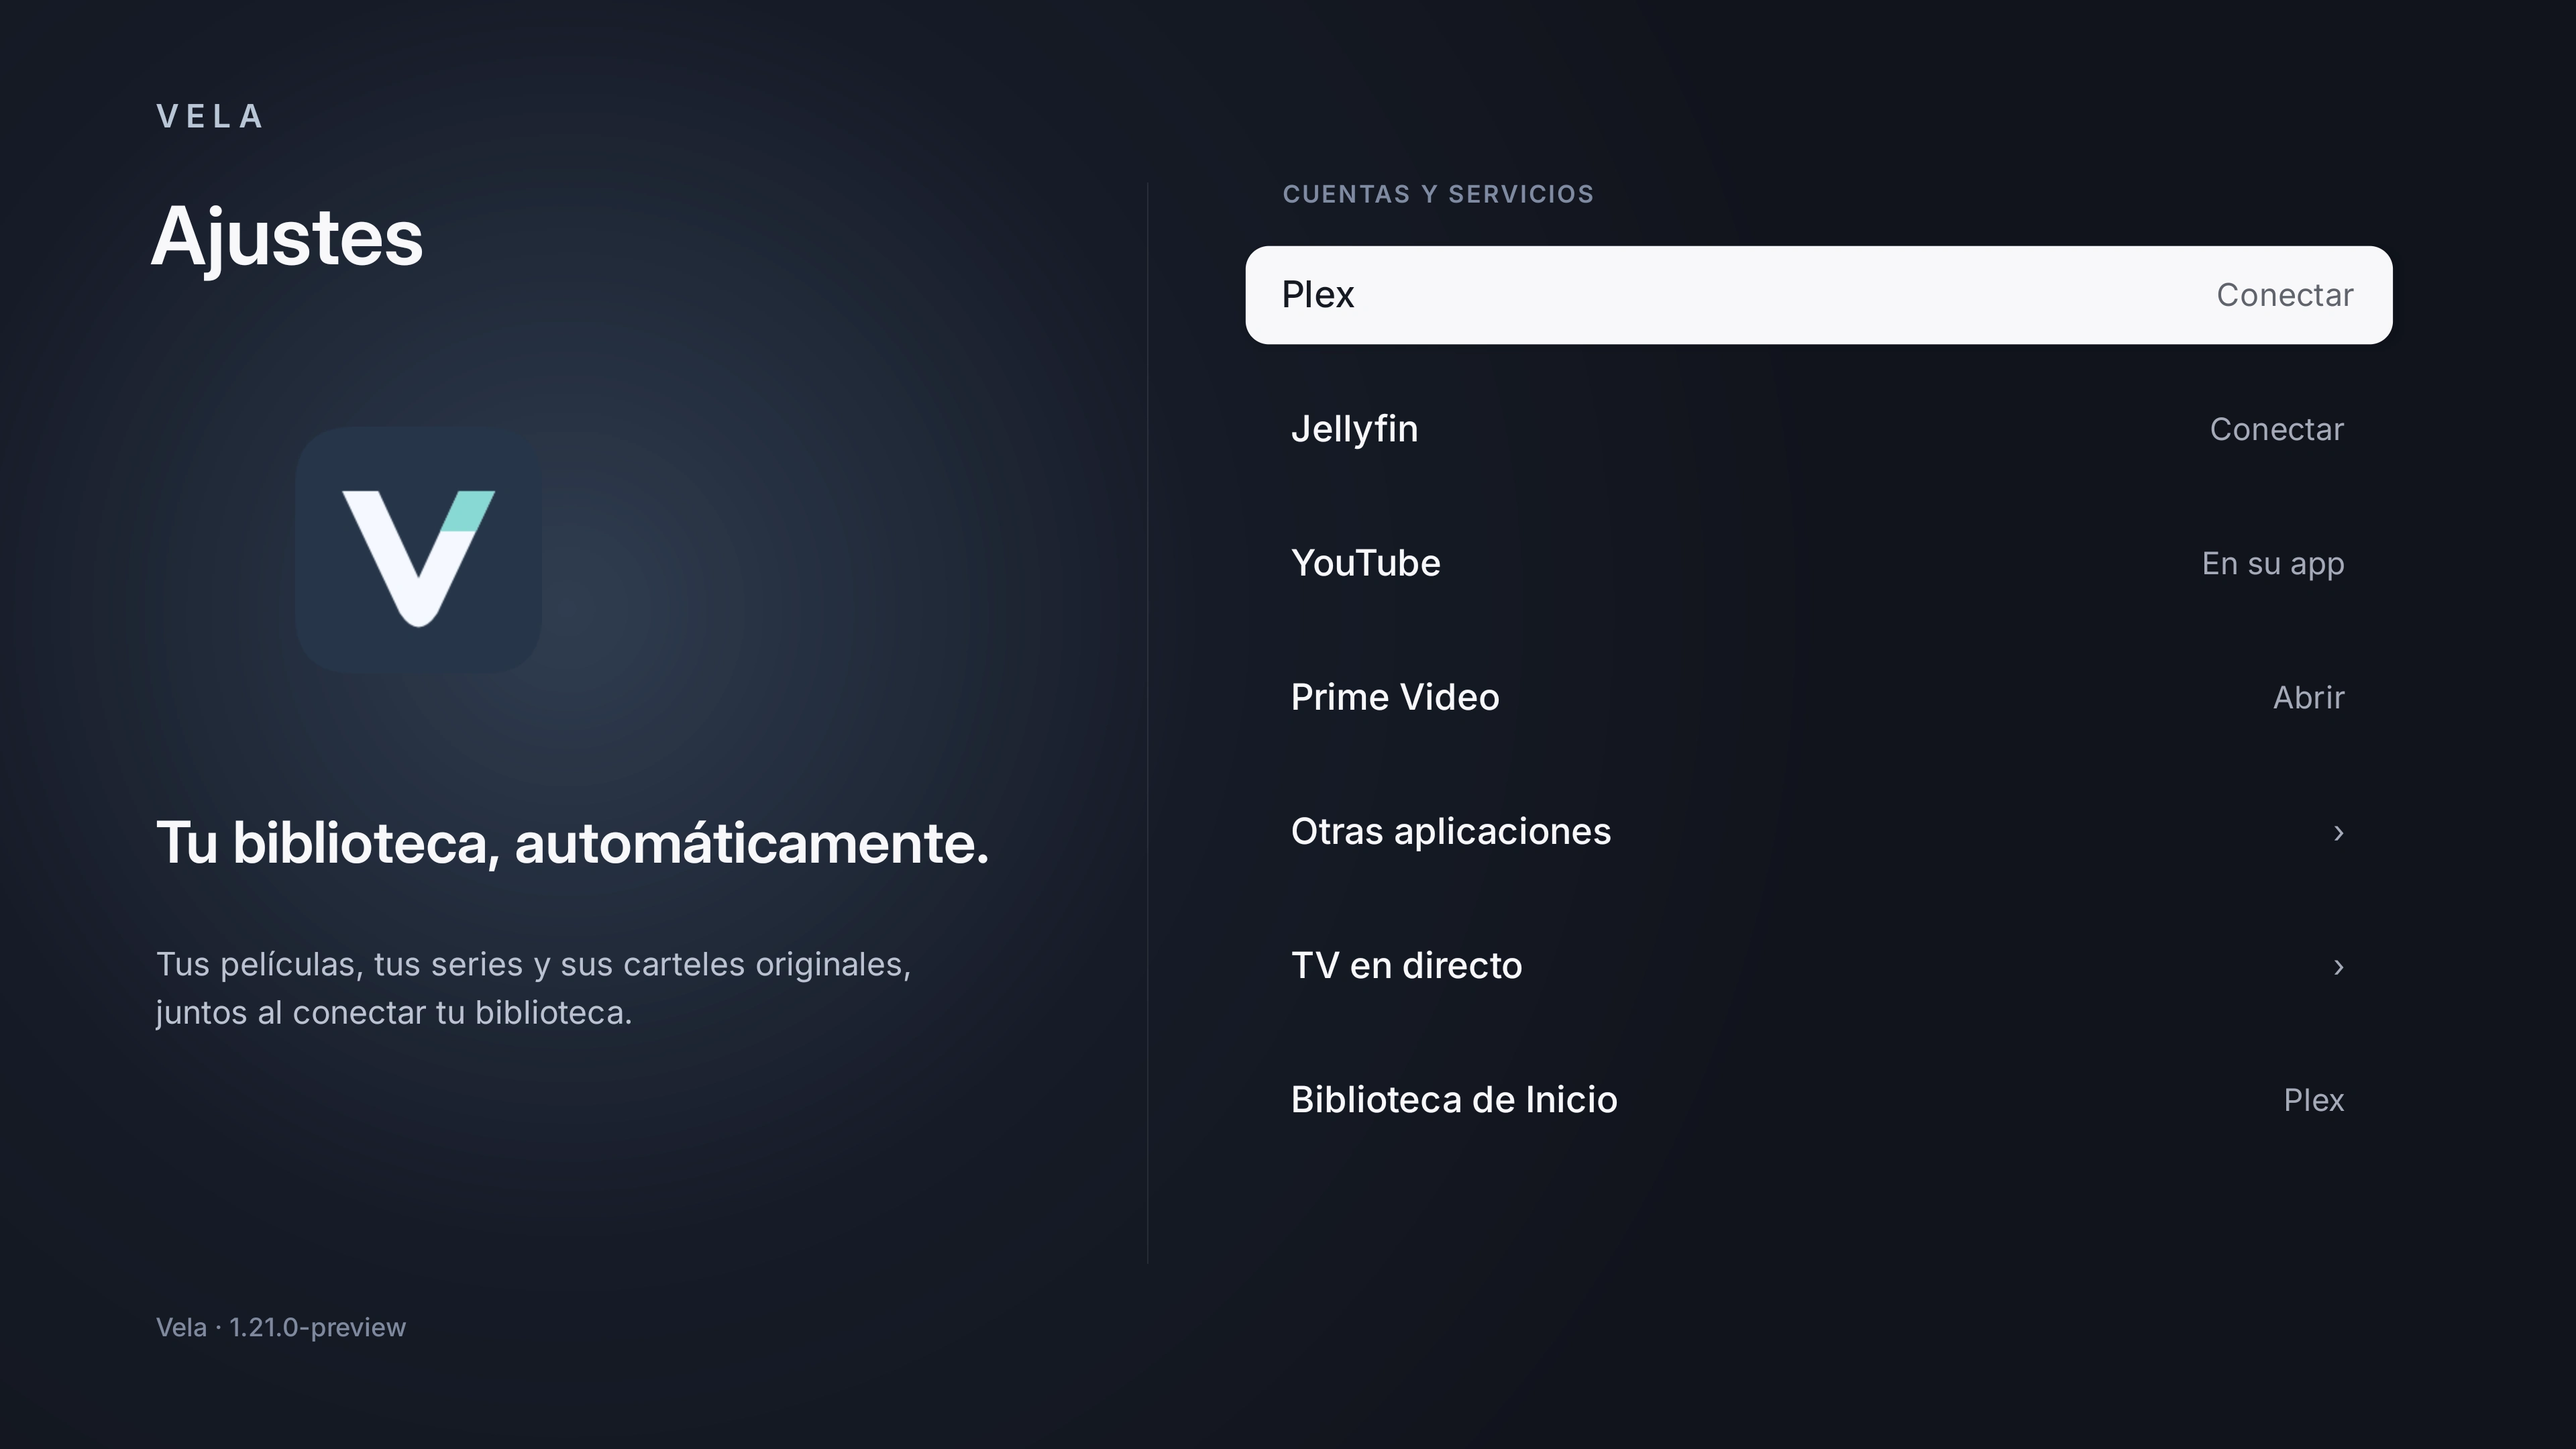
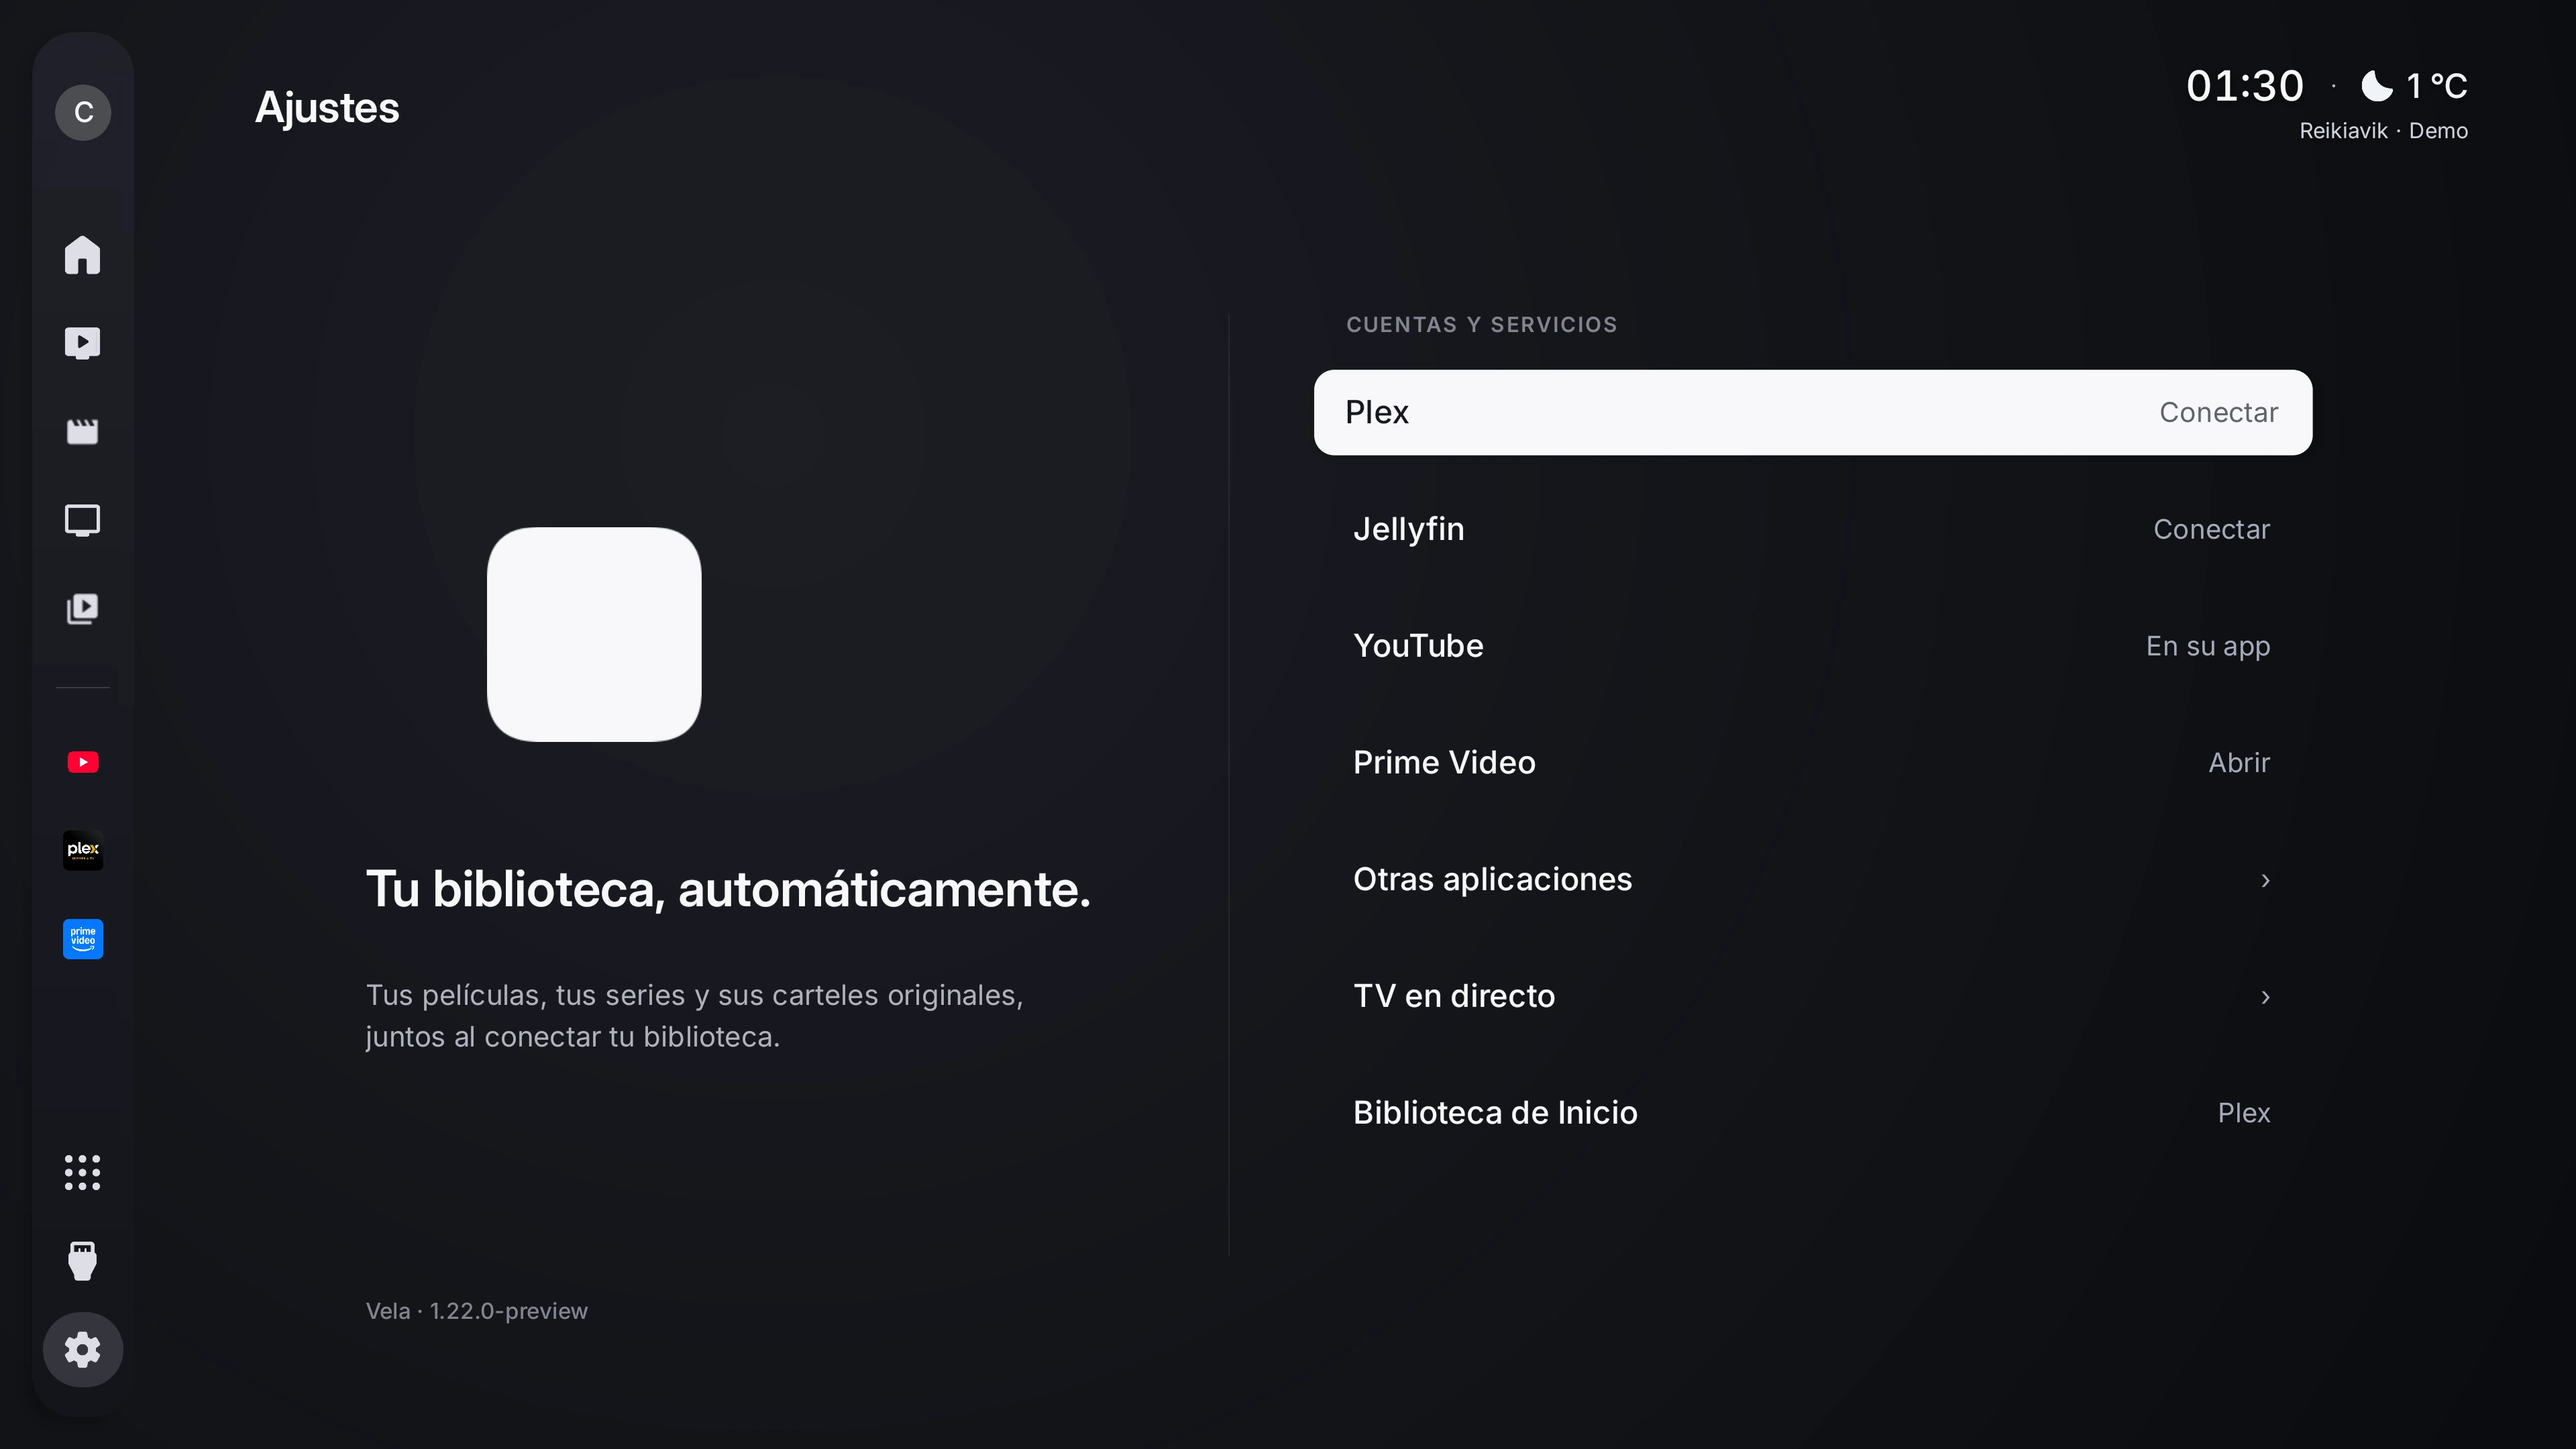
Refresh integrated Vela screens and HDMI gallery in 4K

diff --git a/gallery/README.md b/gallery/README.md
@@ -1,6 +1,6 @@
 # Vela, por dentro
 
-Tu cine, tus aplicaciones, el directo y cada detalle de tu inicio. Recorre Vela en **47 capturas en 4K** y descubre cómo puedes hacerlo tuyo.
+Tu cine, tus aplicaciones, el directo y cada detalle de tu inicio. Recorre Vela en **50 capturas en 4K** y descubre cómo puedes hacerlo tuyo.
 
 [Descargar Vela](https://github.com/LucasLG92/vela-tv/releases/tag/v1.21.0-preview) · [Instalación](../guide/INSTALL.es.md) · [Imágenes y créditos](CREDITS.md)
 
@@ -205,3 +205,21 @@ La TV utiliza la lista M3U pública de TDTChannels, logos originales, EPG dobleM
 ![Programa, progreso y tiempo restante sin salir del vídeo](47-canales-durante-directo.webp)
 
 Derecha abre los canales; OK cambia de emisión y Atrás cierra el panel para seguir viendo.
+
+## Tus dispositivos, dentro de Vela
+
+![Entradas HDMI con iconos y dispositivo destacado](48-entradas-hdmi.webp)
+
+## Una entrada para cada momento
+
+![Xbox y las conexiones dentro de Vela](49-xbox-hdmi.webp)
+
+Los equipos sin señal aparecen como HDMI y su número. Los nombres y símbolos se muestran solo con un estado activo publicado por Android.
+
+## Elige qué has conectado
+
+![Perfiles de dispositivos HDMI](50-identificar-hdmi.webp)
+
+Mantén OK sobre una entrada para elegir su modelo o regresar a Automático. Nintendo, PlayStation, Xbox, Sega, ordenadores, streaming y equipos de vídeo o audio tienen sus perfiles.
+
+Las nuevas capturas 1.22 muestran la paleta grafito, los ajustes integrados y las entradas con iconos. Los dispositivos HDMI son datos simulados del emulador que recorren el mismo código de identificación y vistas; no son una comprobación de consolas físicas. Consulta versión y procedencia en el índice.
